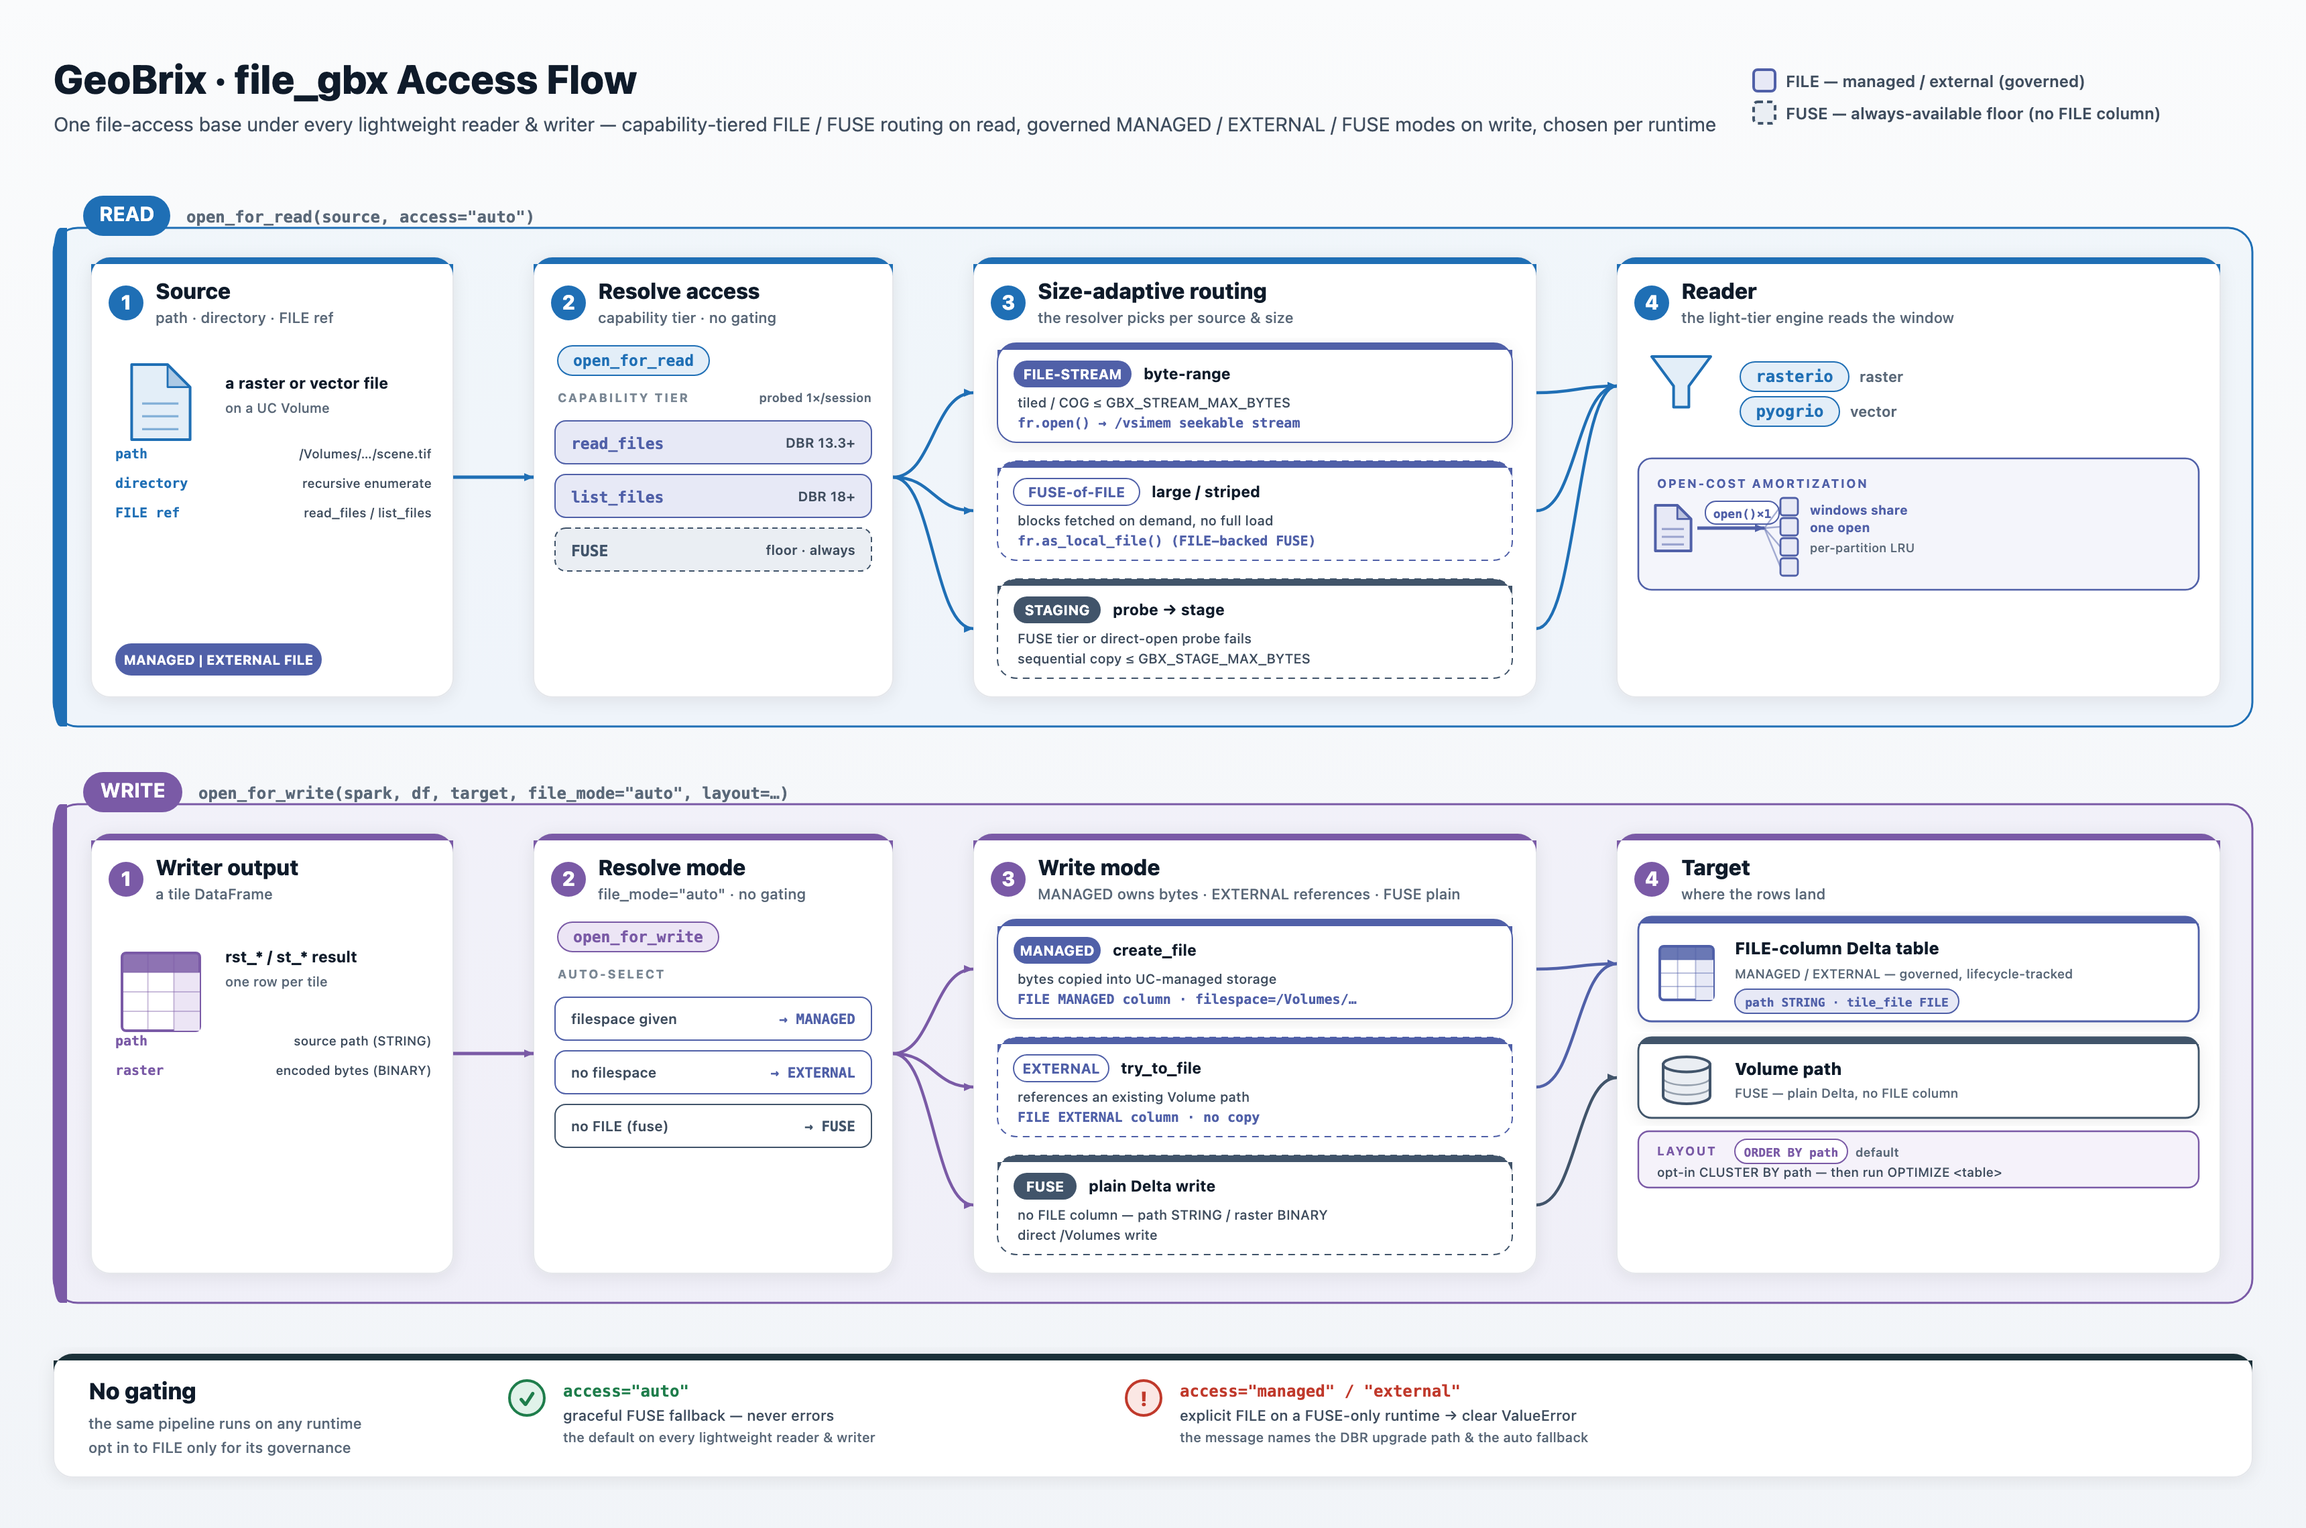
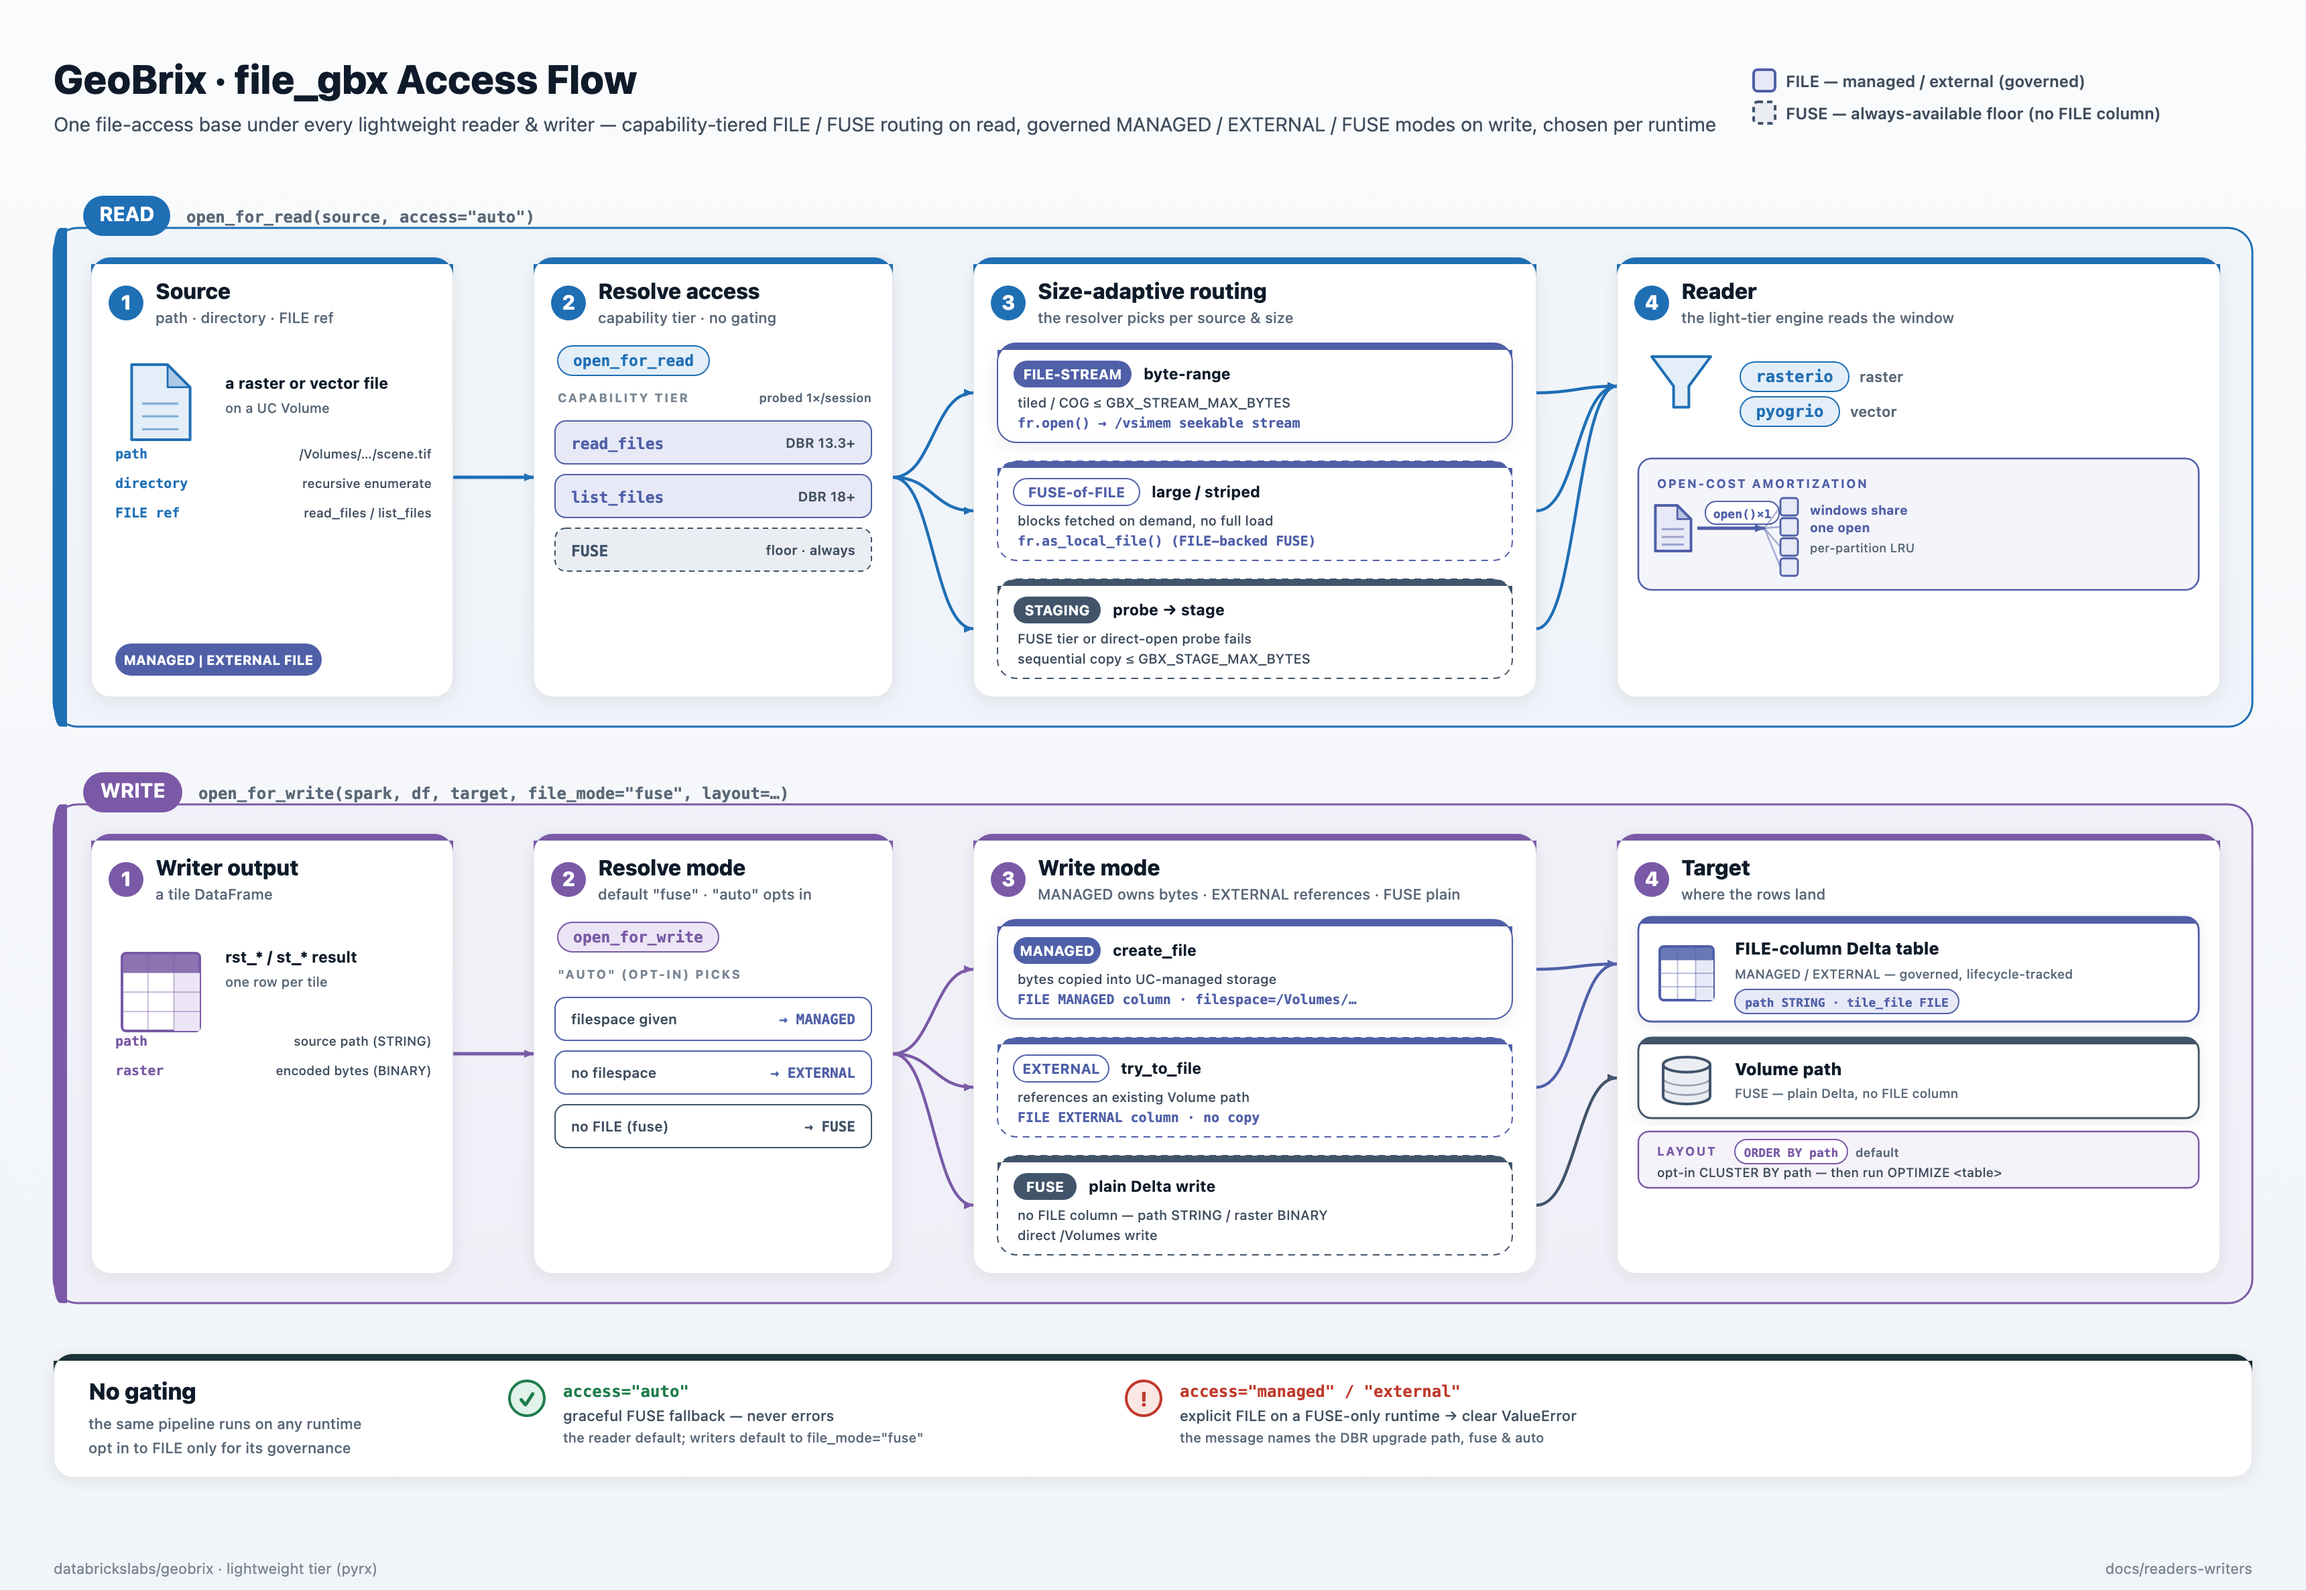
docs(file): show fuse as the file_mode default in the diagrams
The file_gbx flow and common-functions diagrams still drew file_mode="auto"
as the default of gbx_file_write and open_for_write, contradicting the page
text after the default moved to fuse. The generators now draw "fuse" and
show auto as the opt-in rule in the write lane's resolve card; the SVG and
PNG are rebuilt from them with the generators' own Chrome and PIL recipe
(no gbx command renders diagrams), the PNG at the full canvas height so
the footer is no longer cut. The flow diagram's alt text and one stale
virtual-tiles sentence follow.

diff --git a/resources/images/generators/file-gbx-flow.py b/resources/images/generators/file-gbx-flow.py
@@ -454,7 +454,7 @@ def render():
 
     # ============================ WRITE LANE ============================
     parts.append(lane_band(lane2_top, ACCENT_WRITE, TINT_WRITE, "WRITE",
-                           "open_for_write(spark, df, target, file_mode=\"auto\", layout=…)"))
+                           "open_for_write(spark, df, target, file_mode=\"fuse\", layout=…)"))
     wy = lane2_top + BAND_PAD
 
     # --- Stage 1 — Writer output ---
@@ -473,11 +473,11 @@ def render():
 
     # --- Stage 2 — open_for_write + auto-select rule ---
     parts += stage_card(C2_X, wy, C2_W, num=2, title="Resolve mode",
-                        subtitle="file_mode=\"auto\" · no gating", accent=ACCENT_WRITE)
+                        subtitle="default \"fuse\" · \"auto\" opts in", accent=ACCENT_WRITE)
     _wc, _ww = chip(C2_X + 18, wy + 66, "open_for_write", fg=ACCENT_WRITE, bg=TINT_WRITE,
                     border=ACCENT_WRITE, mono_font=True, h=22, size=11.5)
     parts.append(_wc)
-    parts.append(text(C2_X + 18, wy + 108, "AUTO-SELECT", size=9, weight=700,
+    parts.append(text(C2_X + 18, wy + 108, "\"AUTO\" (OPT-IN) PICKS", size=9, weight=700,
                       fill=C_MUTED_3, letter_spacing="1.2"))
     rules = [("filespace given", "→ MANAGED", C_FILE),
              ("no filespace", "→ EXTERNAL", C_FILE),
@@ -583,7 +583,7 @@ def render():
     parts.append(mono(ox + 40, ng_top + 32, 'access="auto"', size=12, weight=700, fill=C_OK))
     parts.append(text(ox + 40, ng_top + 50, "graceful FUSE fallback — never errors", size=11,
                       weight=500, fill=C_MUTED))
-    parts.append(text(ox + 40, ng_top + 66, "the default on every lightweight reader & writer",
+    parts.append(text(ox + 40, ng_top + 66, "the reader default; writers default to file_mode=\"fuse\"",
                       size=10, weight=500, fill=C_MUTED_2))
     # ERR path
     ex = PAD + 800
@@ -594,7 +594,7 @@ def render():
                       weight=700, fill=C_ERR))
     parts.append(text(ex + 40, ng_top + 50, "explicit FILE on a FUSE-only runtime → clear ValueError",
                       size=11, weight=500, fill=C_MUTED))
-    parts.append(text(ex + 40, ng_top + 66, "the message names the DBR upgrade path & the auto fallback",
+    parts.append(text(ex + 40, ng_top + 66, "the message names the DBR upgrade path, fuse & auto",
                       size=10, weight=500, fill=C_MUTED_2))
 
     # ---- Footer ----

diff --git a/resources/images/generators/gbx-common-functions.py b/resources/images/generators/gbx-common-functions.py
@@ -225,7 +225,7 @@ def render():
                  border=ACCENT_WRITE, mono_font=True, h=21, size=11)
     parts.append(wc)
     parts.append(text(bx2 + 12, wy_box + 48, "df, target, *, file_mode=", size=10, weight=500, fill=C_MUTED))
-    parts.append(mono(bx2 + 12 + 124, wy_box + 48, '"auto"', size=10, weight=700, fill=ACCENT_WRITE))
+    parts.append(mono(bx2 + 12 + 124, wy_box + 48, '"fuse"', size=10, weight=700, fill=ACCENT_WRITE))
     parts.append(text(bx2 + 12, wy_box + 65, "returns None (writes Delta table)", size=10, weight=500, fill=C_MUTED_2))
 
     # --- NO-GATING callout ---
